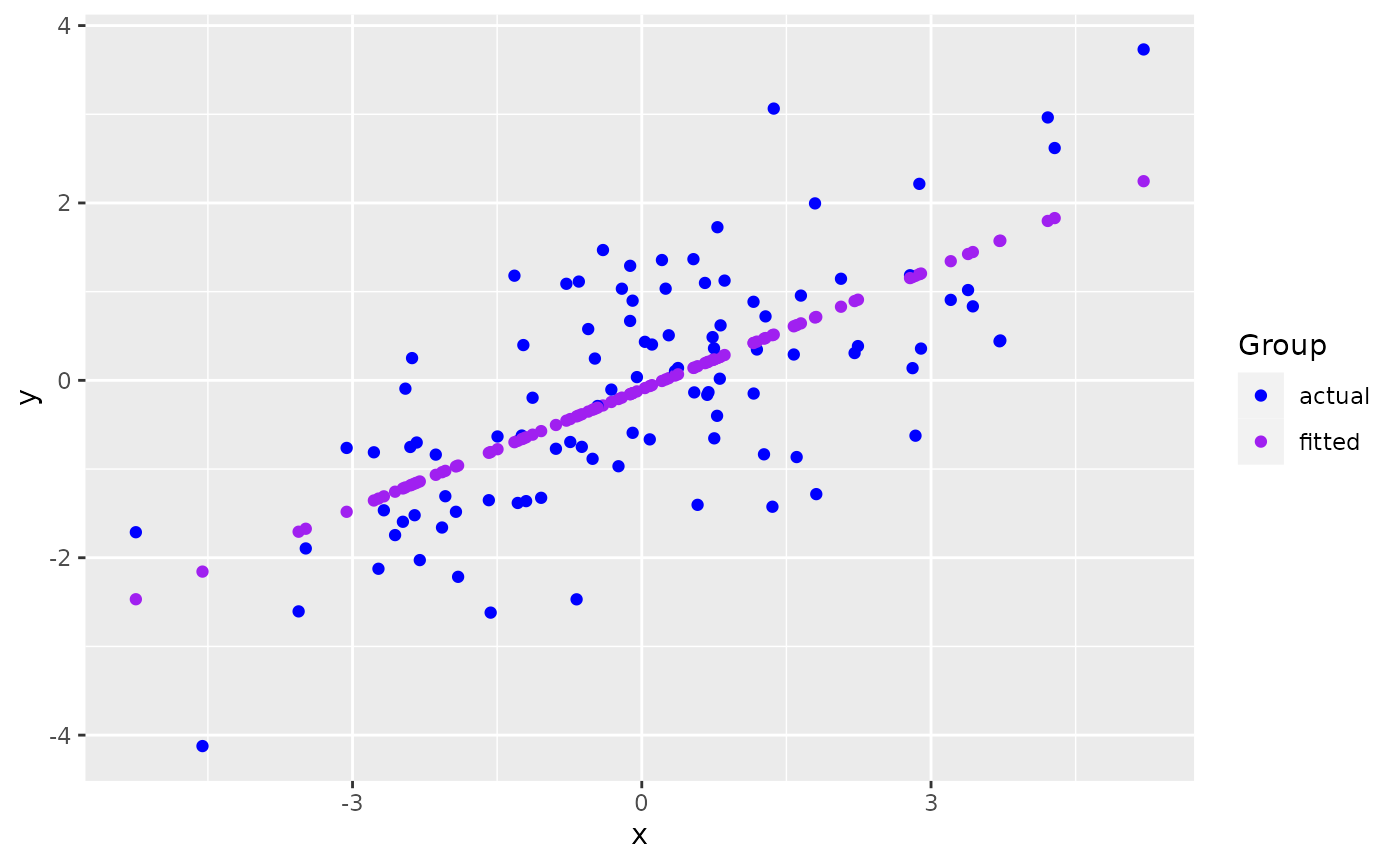
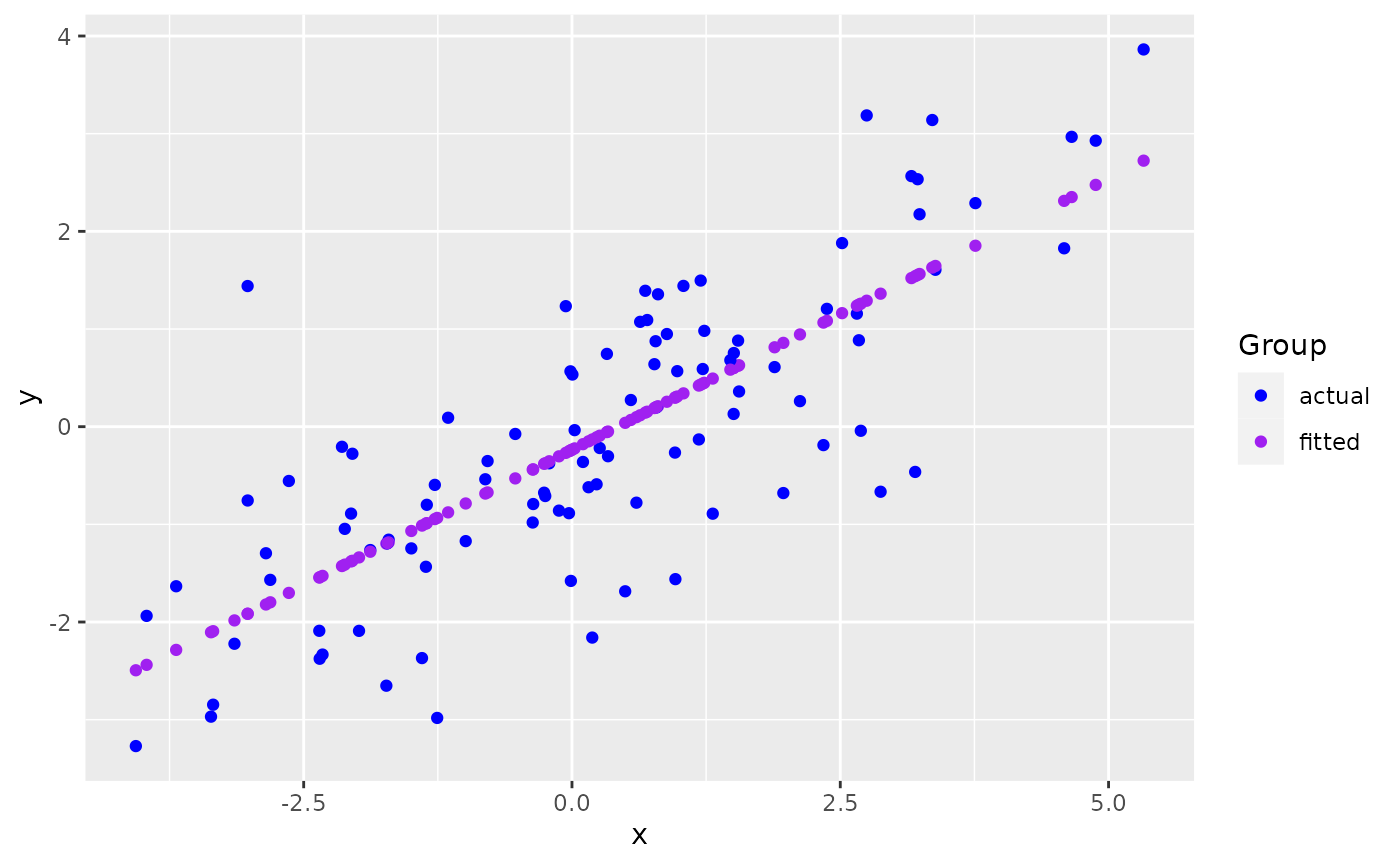
Built site for ggmatplot: 0.1.1@f76c735

diff --git a/articles/ggmatplot.html b/articles/ggmatplot.html
@@ -103,7 +103,7 @@
 <span class="va">x</span> <span class="op">&lt;-</span> <span class="fu"><a href="https://rdrr.io/r/base/c.html" class="external-link">c</a></span><span class="op">(</span><span class="fu"><a href="https://rdrr.io/r/stats/Normal.html" class="external-link">rnorm</a></span><span class="op">(</span><span class="fl">100</span>, sd <span class="op">=</span> <span class="fl">2</span><span class="op">)</span><span class="op">)</span>
 
 <span class="fu"><a href="https://rdrr.io/r/utils/head.html" class="external-link">head</a></span><span class="op">(</span><span class="va">x</span><span class="op">)</span>
-<span class="co">#&gt; [1] -1.92733532 -0.24162243  0.08297531 -0.05042969 -0.67610090  1.80982321</span>
+<span class="co">#&gt; [1] -2.63818931 -2.11697943 -0.05763663  1.96948148  2.34318566  2.37536526</span>
 
 <span class="co"># matrix z</span>
 <span class="va">y</span> <span class="op">&lt;-</span> <span class="va">x</span> <span class="op">*</span> <span class="fl">0.5</span> <span class="op">+</span> <span class="fu"><a href="https://rdrr.io/r/stats/Normal.html" class="external-link">rnorm</a></span><span class="op">(</span><span class="fl">100</span>, sd <span class="op">=</span> <span class="fl">1</span><span class="op">)</span>
@@ -112,13 +112,13 @@
            fitted <span class="op">=</span> <span class="va">fit.y</span><span class="op">)</span>
 
 <span class="fu"><a href="https://rdrr.io/r/utils/head.html" class="external-link">head</a></span><span class="op">(</span><span class="va">z</span><span class="op">)</span>
-<span class="co">#&gt;        actual      fitted</span>
-<span class="co">#&gt; 1 -1.48193188 -0.97080392</span>
-<span class="co">#&gt; 2 -0.96844638 -0.21065161</span>
-<span class="co">#&gt; 3 -0.66556818 -0.06427809</span>
-<span class="co">#&gt; 4  0.03646922 -0.12443549</span>
-<span class="co">#&gt; 5 -2.46893705 -0.40657454</span>
-<span class="co">#&gt; 6 -1.28276508  0.71442358</span></code></pre></div>
+<span class="co">#&gt;       actual     fitted</span>
+<span class="co">#&gt; 1 -0.5558864 -1.7019345</span>
+<span class="co">#&gt; 2 -1.0461886 -1.4123336</span>
+<span class="co">#&gt; 3  1.2339440 -0.2680968</span>
+<span class="co">#&gt; 4 -0.6796244  0.8582350</span>
+<span class="co">#&gt; 5 -0.1886317  1.0658770</span>
+<span class="co">#&gt; 6  1.2064536  1.0837571</span></code></pre></div>
 <p><code>ggmatplot</code> plots vector <code>x</code> against each column of matrix <code>z</code> using the default <code>plot_type = "point"</code>. This will be represented on the resulting plot as two groups, identified using different shapes and colors.</p>
 <div class="sourceCode" id="cb2"><pre class="downlit sourceCode r">
 <code class="sourceCode R"><span class="kw"><a href="https://rdrr.io/r/base/library.html" class="external-link">library</a></span><span class="op">(</span><span class="va"><a href="https://github.com/xuan-liang/ggmatplot" class="external-link">ggmatplot</a></span><span class="op">)</span>
